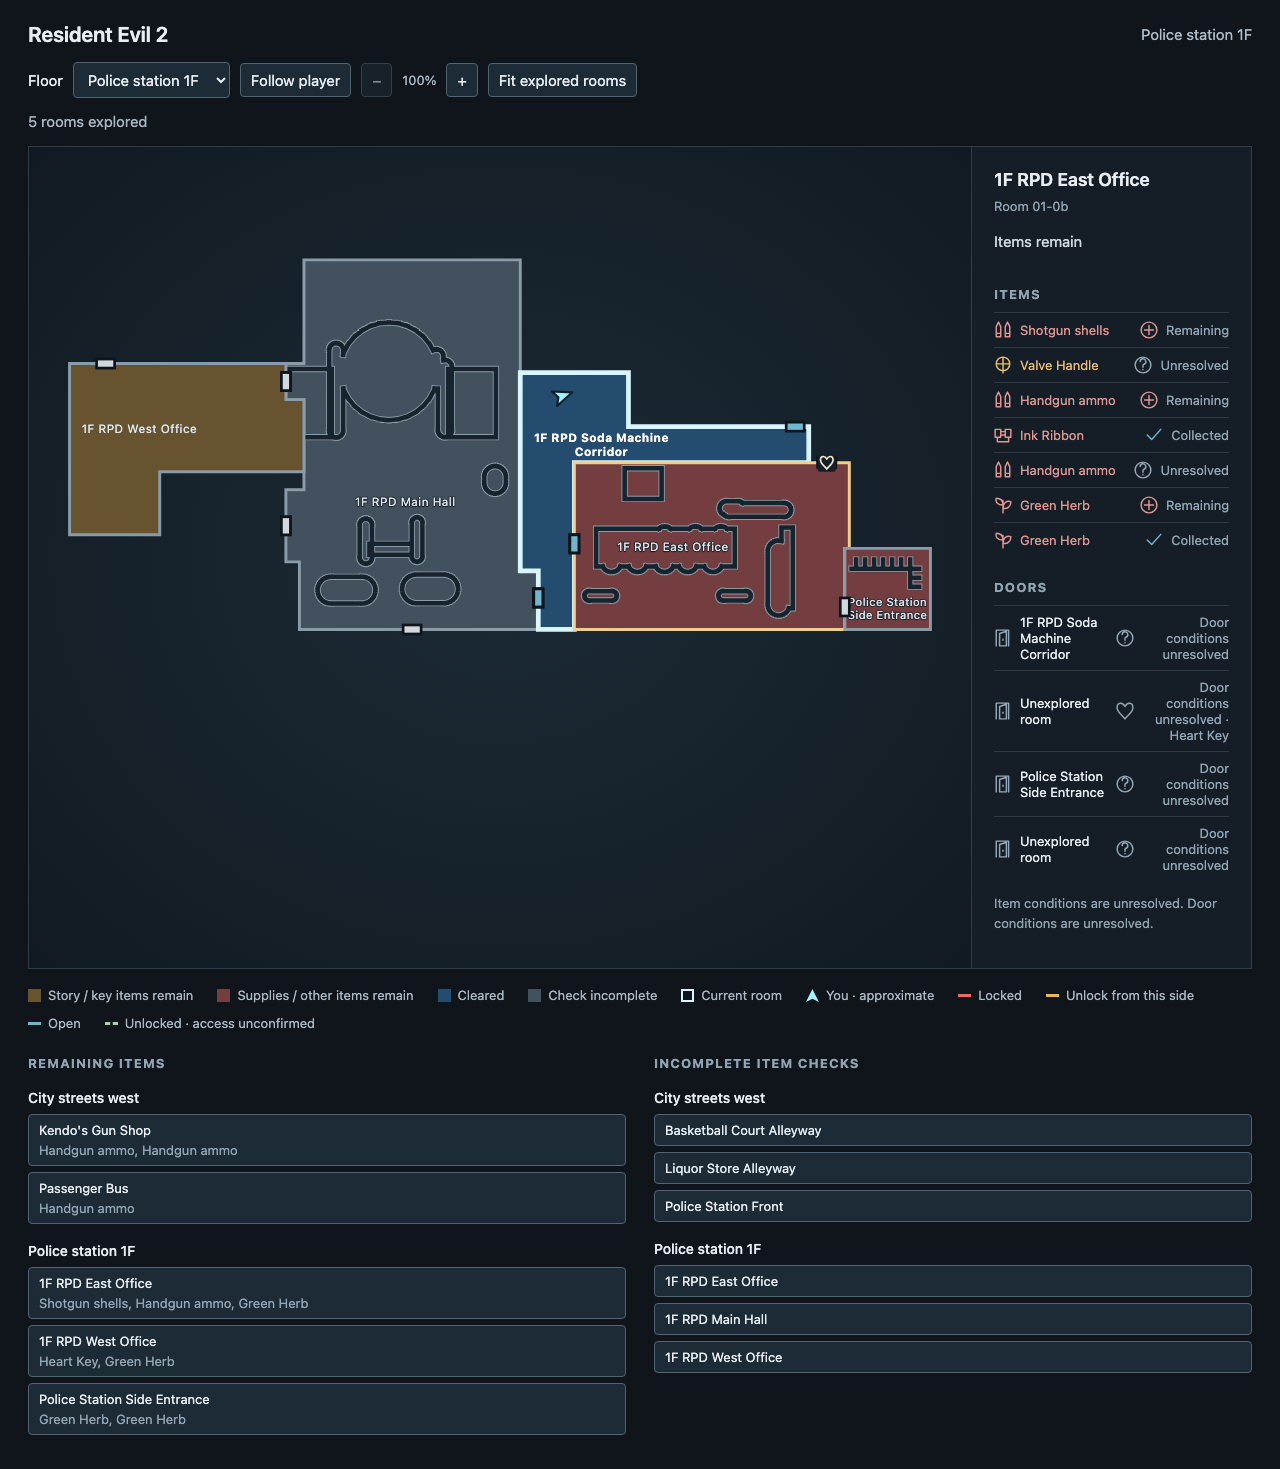
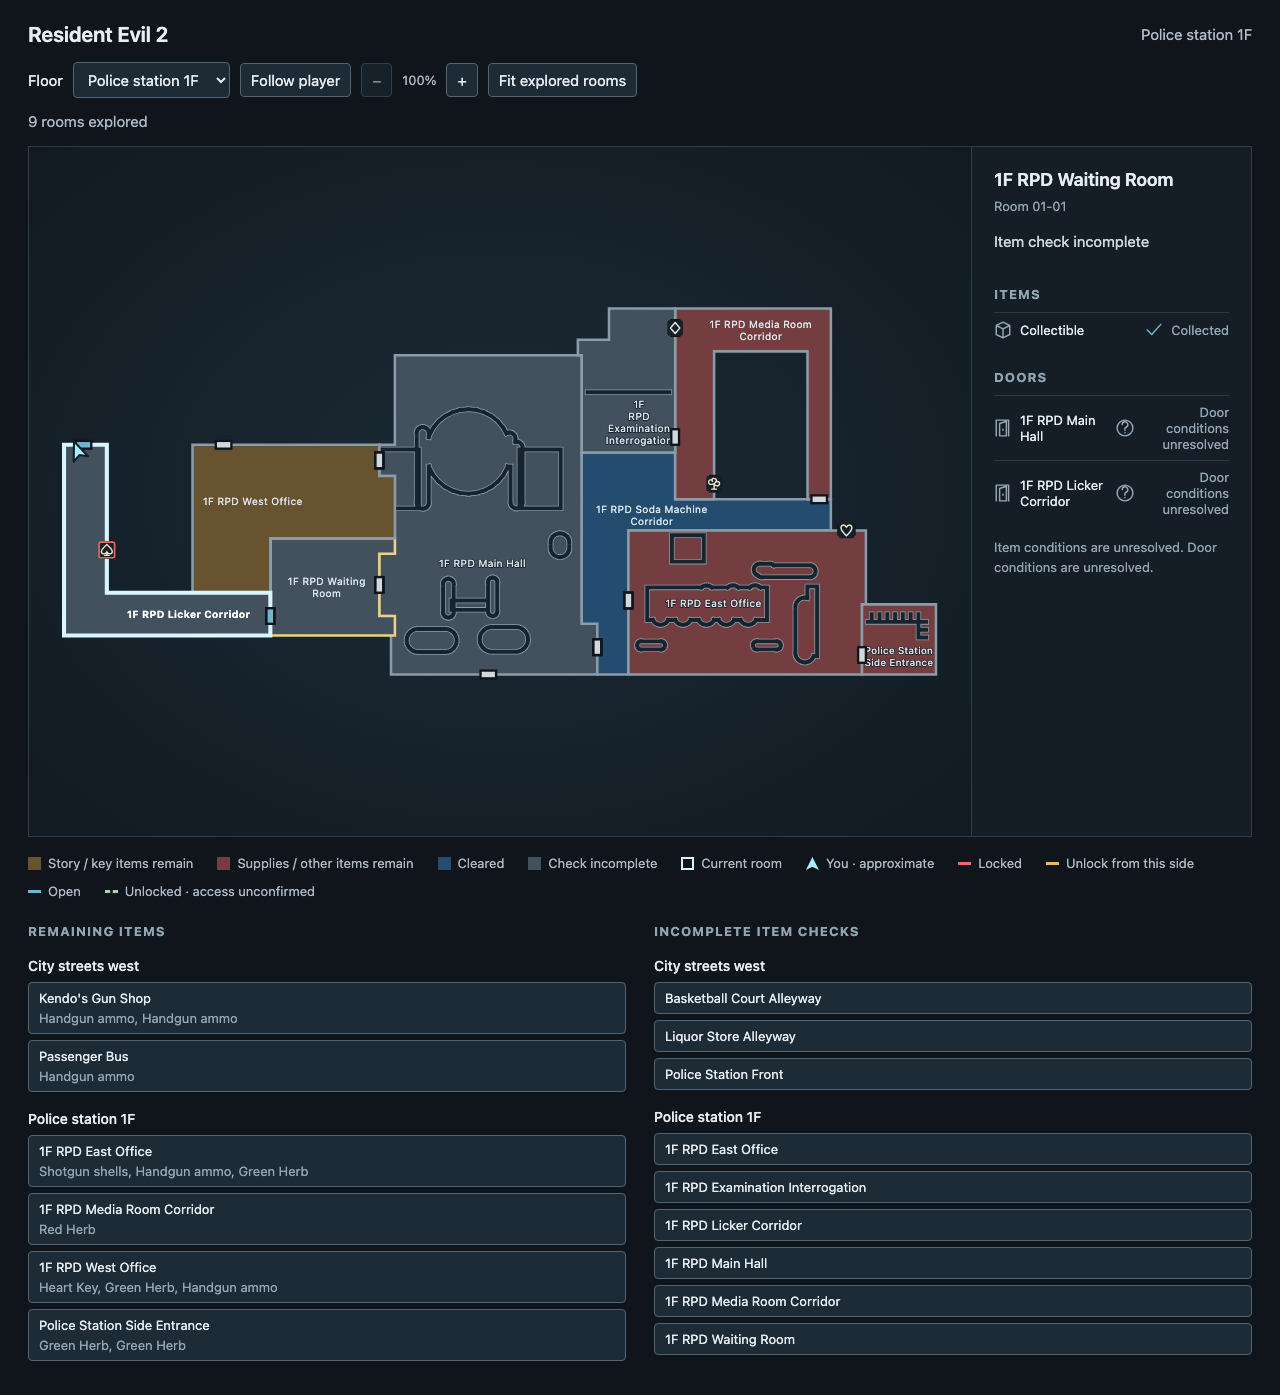
fix(ui): group equivalent re2 door alternatives
Author: gpt-6.1-sol

diff --git a/tests/test_re2_door_variants.py b/tests/test_re2_door_variants.py
@@ -1,0 +1,108 @@
+"""RE2-DOOR-006: slot identity groups list entries, never map observations."""
+
+import copy
+from collections import Counter
+from dataclasses import replace
+
+import pytest
+from test_re2_tracking import profile as profile
+from test_re2_tracking import snapshot as snapshot
+
+from games.game_profile import RoomId
+from games.re2.live_tracking import poll_re2
+from tracker.exploration_state import DoorDetail, DoorUnlockState, Tracker
+from tracker.polling import PollStatus
+from ui.map_view import map_state
+
+
+@pytest.mark.parametrize("profile", ["re2_leon_a_slus00748"], indirect=True)
+@pytest.mark.parametrize("snapshot", ["01-04"], indirect=True)
+def test_departed_waiting_room_preserves_each_observation_and_its_shared_slot(snapshot):
+    profile, _, _, read = snapshot
+    tracker = Tracker()
+    tracker.mark_current(RoomId(1, 1))
+    assert poll_re2(profile, tracker, read).status is PollStatus.Display
+    doors = [door for door in tracker.doors if door.source == RoomId(1, 1)]
+    definitions = profile.rooms["01-01"]["doors"]
+    assert len(doors) == len(definitions) == 4
+    assert [door.observation_id for door in doors] == [
+        f"01-01:{definition['offset']}" for definition in definitions
+    ]
+    assert Counter(door.interaction_id for door in doors) == {
+        "01-01:0": 2,
+        "01-01:1": 2,
+    }
+    assert all(door.state == "UNCHECKED" for door in doors)
+    assert all(door.unlock_state is DoorUnlockState.Unknown for door in doors)
+    published = [
+        door for door in map_state(tracker)["doors"] if door["source"] == "01-01"
+    ]
+    assert [door["interaction_id"] for door in published] == [
+        door.interaction_id for door in doors
+    ]
+    assert [door["observation_id"] for door in published] == [
+        door.observation_id for door in doors
+    ]
+
+
+def test_slot_identity_survives_current_creator_and_lock_reversal(snapshot):
+    profile, ram, put, read = snapshot
+    source = copy.deepcopy(profile.rooms["00-01"])
+    definition = source["doors"][0]
+    alternative = {
+        **definition,
+        "offset": definition["offset"] + 400,
+        "lock_id": 0x82,
+        "lock_type": 89,
+    }
+    source["doors"].append(alternative)
+    profile = replace(profile, rooms=profile.rooms | {"00-01": source})
+    pointer = 0x80100000 + definition["offset"] + 2
+    other_pointer = 0x80100000 + alternative["offset"] + 2
+    ram[other_pointer & 0x1FFFFF : (other_pointer & 0x1FFFFF) + 30] = read(
+        pointer, 30
+    ).data
+    put(other_pointer + 27, 0x82, 1)
+    put(other_pointer + 28, 89, 1)
+    registry = (
+        int(profile.runtime_layout["aot_table_address_ps1"], 0) + definition["slot"] * 4
+    )
+    key_address, _ = profile.flag_banks[profile.runtime_layout["key_bank"]]
+    tracker = Tracker()
+    for active, flags, expected in (
+        (pointer, 0, "OPEN"),
+        (other_pointer, 0, "LOCKED"),
+        (other_pointer, 0x20000000, "OPEN"),
+        (other_pointer, 0, "LOCKED"),
+        (pointer, 0, "OPEN"),
+    ):
+        put(registry, active, 4)
+        put(key_address, flags, 4)
+        assert poll_re2(profile, tracker, read).status is PollStatus.Display
+        doors = [door for door in tracker.doors if door.target == RoomId(0, 0)]
+        assert len(doors) == 1
+        door = doors[0]
+        assert door.interaction_id == f"00-01:{definition['slot']}"
+        assert door.observation_id == f"00-01:{active - 0x80100002}"
+        assert door.state == expected
+        published = next(
+            row
+            for row in map_state(tracker)["doors"]
+            if row["observation_id"] == door.observation_id
+        )
+        assert published["interaction_id"] == door.interaction_id
+
+
+def test_doors_without_a_registry_slot_keep_separate_list_entries():
+    tracker = Tracker(player_heading=90)
+    tracker.mark_current(RoomId(0, 9))
+    tracker.current_region = "mansion1f:09"
+    tracker.region_visits[tracker.current_region] = "00-09"
+    tracker.doors = (
+        DoorDetail(RoomId(0, 9), RoomId(0, 10), "OPEN", "Open"),
+        DoorDetail(RoomId(0, 9), RoomId(0, 10), "OPEN", "Open"),
+    )
+    assert [door["interaction_id"] for door in map_state(tracker)["doors"]] == [
+        "",
+        "",
+    ]

diff --git a/src/ui/map_view.py b/src/ui/map_view.py
@@ -79,6 +79,7 @@ def map_state(tracker: Tracker) -> dict:
                 "key_label": door.key_label,
                 "observation_id": door.observation_id,
                 "unlock_state": door.unlock_state.value,
+                "interaction_id": door.interaction_id,
             }
             for door in tracker.doors
         ],
@@ -775,7 +776,15 @@ function draw(state) {
     detail.append(listSymbol(status,status==='remaining'?visual.category:status==='collected'?'collected':'neutral'),text);row.append(name,detail);items.append(row);
   }
   const doors=document.getElementById('doors');doors.replaceChildren();
+  const listedDoors=new Set();
   for(const door of state.doors.filter(door=>door.source===visit.room)) {
+    if(door.interaction_id) {
+      // Alternate creators share one registry slot. Collapse identical list
+      // entries while retaining every source-offset observation for the map.
+      const entry=JSON.stringify([door.interaction_id,door.target,door.state,door.label,door.key_label,door.unlock_state]);
+      if(listedDoors.has(entry)) continue;
+      listedDoors.add(entry);
+    }
     const row=document.createElement('li'), name=document.createElement('span'), detail=document.createElement('span');
     name.className='entry-name';detail.className='entry-status';
     const label=document.createElement('span');label.textContent=door.target_visited ? knownRooms.get(door.target) || 'Room '+door.target : 'Unexplored room';name.append(listSymbol('door','neutral'),label);

diff --git a/src/tracker/exploration_state.py b/src/tracker/exploration_state.py
@@ -56,6 +56,9 @@ class DoorDetail:
     # Access and activation do not establish a separately read unlock flag.
     # Readers without that knowledge, including RE1, leave it unknown.
     unlock_state: DoorUnlockState = DoorUnlockState.Unknown
+    # Alternate RE2 creators can occupy one registry slot. Keep this identity
+    # separate from the source-offset observation used to bind wall markers.
+    interaction_id: str = ""
 
     def __post_init__(self) -> None:
         assert isinstance(self.unlock_state, DoorUnlockState), (

diff --git a/src/games/re2/live_tracking.py b/src/games/re2/live_tracking.py
@@ -456,6 +456,7 @@ def poll_re2(
                         key_label,
                         f"{visited}:{definition['offset']}",
                         unlock_state=unlock_state,
+                        interaction_id=f"{visited}:{definition['slot']}",
                     )
                 )
 

diff --git a/docs/research/re2/dualshock.md b/docs/research/re2/dualshock.md
@@ -434,3 +434,21 @@ A separate concrete Main Hall external family prevents a whole-source proof even
 The same-baseline comparison retains zero resolved item outcomes and no private guard-suppressed result is used as evidence. Pool-corrected regeneration, all source outcomes, map bytes and all 17 retained publications remain as recorded in the correction above. Acquisition remains separate from activation, and no history/rewind rule changes. No UI, doorway or interior code changes, no screenshots and no new gameplay coverage are claimed.
 
 Contribution and review: 2026-10-27; human user requested the room-state corrections; parent coordination scoped this bounded native pass and closed the increment with the verified pool correction and this research record. Codex implementation agent, exact executing model `gpt-6.1-sol`, verified by T3's current-thread model metadata, authored the private control prototype, copied native experiments, owned movie reconstruction, source comparisons and this record. The separate East Office agent supplied the scheduler self-alias counterexample; this author did not reproduce its occupancy conditions or claim a gameplay observation. Direct review checked literal native addresses, signed depth/immediate handling, zero/first-iteration semantics, write widths/masks, positive resource bounds, deferred-effect limits, unchanged outcomes and attribution. The configured Claude/Gemini providers remain disabled; no external review or substitute endorsement is claimed.
+
+## RE2-DOOR-006: alternate door creators share one detail row
+
[1 lines of base64/hex data omitted]
+
+The human's 2026-10-28 screenshots show two Main Hall and two Licker Corridor rows when inspecting departed Waiting Room `01-01`. Owned `PL0/RDT/ROOM2010.RDT` contains two identical 32-byte door commands for registry slot zero at file offsets 3018/4232 and another identical pair for slot one at 3050/4264. These are alternate bindings of two slots. Keeping every source-offset observation is necessary for the existing wall markers, but displaying every equivalent alternative duplicates the detail list.
+
+RE2 now publishes a separate source-and-slot identity. The detail list groups alternatives only when that identity, destination, access state, label, key and unlock state all agree. Different slots and conflicting alternatives retain separate rows. Readers without registry-slot identities retain their previous rows. Map observations, wall binding, uncertainty, unlock inference, item completion and visit history are unchanged. In particular, grouping does not establish that a departed door is open and does not resolve gray rooms.
+
+`tests/test_re2_door_variants.py` checks the four original Waiting Room observations and their two slot identities, current creator switching, lock reversal and legacy readers. `tests/check_door_variants_browser.mjs` verifies desktop/mobile rows, conflicting alternatives, all wall observations and preserved zoom. The README screenshot is regenerated from a private reconstruction of the user's supplied progression, selecting the Waiting Room with two door rows. It reveals no additional visits.
+
[1 lines of base64/hex data omitted]
+
+The same investigation revisits the existing gray-room gaps without shipping an interpreter relaxation. Mixed-loop validation alone resolves zero item outcomes across all 125 owned Leon sources; existing scheduled-item proofs also add zero outcomes. Waiting Room's Copy commands additionally mutate signed actor-part indices, requiring bounds that a numeric-operand whitelist cannot supply. Licker Corridor also contains explicit task replacement and movie effects beyond the current proof. A separate bounded volume-handler/mixer experiment passes 512 copied executions but still resolves zero source/item outcomes, so that capability is discarded. A clipping command in source `01-0e` has unproved deferred actor/geometry writes and remains unsupported. The earlier Main Hall/East Office limitations above remain in force. No new item identity, presence, absence or room clearance is claimed.
+
+Final checks pass all 2,754 Python tests, the RE1 and RE2 map browser suites, both door browser suites, scoped Ruff formatting/lint and whitespace checks. All three saved-state publications equal their baselines after removing only the new slot-identity field. New claim links resolve. These checks validate presentation and preserved interpretation; they add no gameplay coverage.
+
+Contribution and review, 2026-10-28: Codex root and the two investigation agents, each exact executing model `gpt-6.1-sol` inherited from this T3 turn, investigated the supplied captures, owned sources and native entry/effect limits. The door agent implemented grouping and its focused tests; root independently reviewed the diff, reconstructed the saved publications, ran the copied volume experiment, regenerated the screenshot and authored this record. Review checks include slot versus observation identity, distinct/conflicting doors, current-side selection, flag reversal, legacy readers, UI layout, keyboard-accessible room inspection, zoom and scope. Claude and Antigravity remain disabled in T3 capabilities, so the configured Claude Opus/Gemini Flash reviews are unavailable; no substitute endorsement is claimed.

diff --git a/docs/testing/re2.md b/docs/testing/re2.md
@@ -8,6 +8,8 @@ The active targets are USA Dual Shock Ver. Disc 1, SLUS-00748, Leon A, and Disc 
 
 ## RE2 Leon A checks
 
+[RE2-DOOR-006](../research/re2/dualshock.md#re2-door-006-alternate-door-creators-share-one-detail-row) covers equivalent door alternatives sharing a detail row. Run `python3 -m pytest -q tests/test_re2_door_variants.py tests/test_tracker.py tests/test_map_view.py tests/test_re2_door_layout.py` and `bun tests/check_door_variants_browser.mjs <python> <private-output-directory>`, with Playwright available through `NODE_PATH` when needed. The browser check verifies desktop/mobile grouping, distinct slots and conflicting alternatives, unchanged source-offset wall bindings, creator/lock reversal and preserved zoom. Grouping leaves unresolved access and item completion unchanged.
+
 See [RE2](../re2.md) for the explicit profile/history command and current limits. Run `python3 -m pytest -q tests/test_re2_profile.py tests/test_re2_metadata.py tests/test_re2_tracking.py tests/test_re2_position.py` for pinned identity, SCD bounds, shared contour extraction, source binding, native-map alternatives, lifecycle/scenario rejection, dormant versus unresolved items, acquisition/key flag reversal, guarded position placement and atomic publication after coherence checks. These are synthetic regressions and offline catalog checks, not new gameplay observations. Browser regressions are `bun tests/check_map_browser.mjs <python>` for RE1 and `bun tests/check_re2_map_browser.mjs <python>` for all 133 Leon A outlines, source-specific door bindings and moving-marker view/state handling. If Playwright is supplied by the bundled runtime, set `NODE_PATH` to its `node_modules` directory.
 
 RE2-IDENTITY-001, RE2-SCD-001, RE2-MAP-001 and RE2-LIVE-001 in [research](../research.md) record exact identities, addresses, source leads and evidence. [RE2-LIVE-002](../research/re2.md#re2-live-002-gun-shop-ammunition-and-savestate-reversal) adds two observed shop ammunition pickups and actual earlier/later DuckStation loads. The first pickup followed ordinary navigation; the second used a recorded coordinate edit within the loaded shop. Neither establishes the full opening route to the RPD.

diff --git a/docs/research.md b/docs/research.md
@@ -280,6 +280,7 @@ Findings are grouped by game and topic. Each entry retains its own status, revis
 | [RE2-DS-002](research/re2/dualshock.md#re2-ds-002-claire-b-dualshock-revision-port) | exact requested Disc 2 hash, Claire B profile, separate history and revision validation limits |
 | [RE2-DOOR-004](research/re2/dualshock.md#re2-door-004-current-slot-selection-and-inactive-door-access) | suppress superseded current creators, respect zero activation, preserve departed uncertainty and fresh unlock flags; offline validation limits |
 | [RE2-DOOR-005](research/re2/dualshock.md#re2-door-005-display-fresh-unlock-knowledge-separately-from-access) | explicit fresh unlock state and map/list padlock cues retain access uncertainty, side/creator binding and reversal; offline checks only |
+| [RE2-DOOR-006](research/re2/dualshock.md#re2-door-006-alternate-door-creators-share-one-detail-row) | equivalent registry-slot alternatives share a detail row while preserving all wall observations and unresolved completion |
 | [RE2-DS-003](research/re2/dualshock.md#re2-ds-003-vibration-writes-preserve-item-context) | bounded Leon vibration writes recover an explored corridor's item identity and departed presence; other RPD gaps remain unresolved |
 | [RE2-LIFETIME-001](research/re2/creator-lifetime.md#re2-lifetime-001-unreachable-generic-creators-preserve-pickup-presence) | shared fixed-context creator reachability preserves West Office pickup presence after departure; conditional award and native-validation limits stay separate |
 
